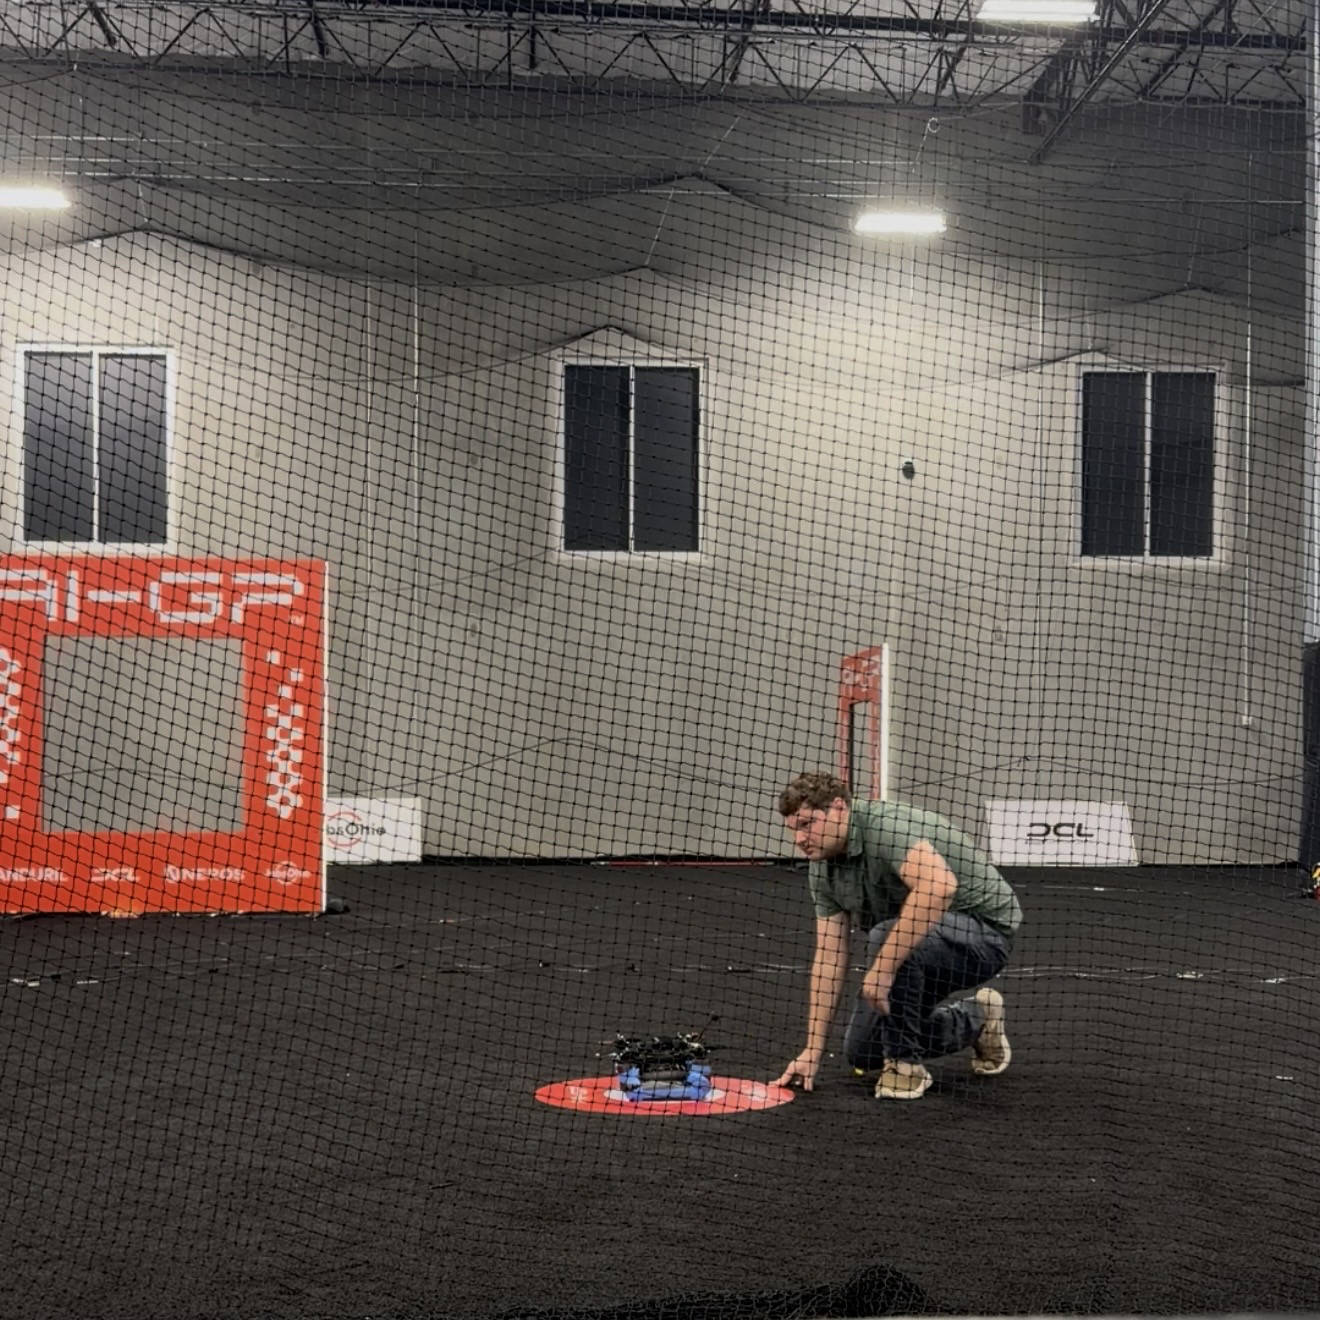
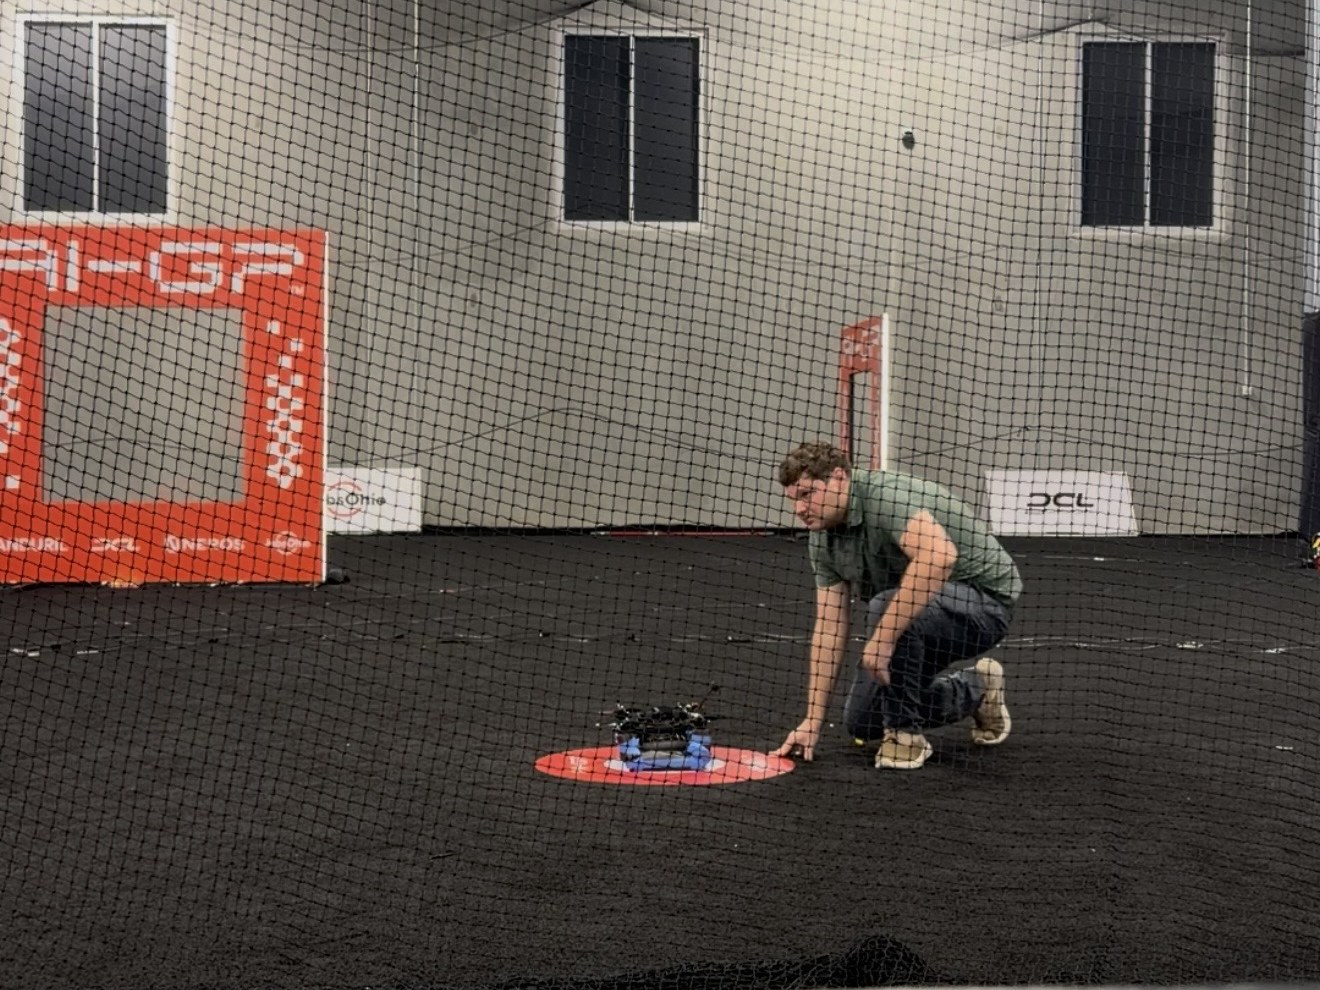
Site: qualifier wording; setup photo cropped to match the padding photo

diff --git a/site/src/content.js b/site/src/content.js
@@ -36,7 +36,7 @@ export const stats = [
 
 export const team = {
   intro:
-    "The two virtual qualifiers were flown in the organizers' simulator, with our stack connected to it over MAVLink: I qualified through VQ1, then placed in the top 15 of more than 3,300 teams worldwide in VQ2, which earned an invitation to the physical qualifiers. Cristhian Prado and Reese Haven came on for the physical qualifier at Anduril in Costa Mesa, CA. To prepare, we forked an open-source Elodin drone simulator that runs the Betaflight flight-controller firmware in the loop and built the published course into it, so the same code could be developed against the real course before it ever flew.",
+    "The two virtual qualifiers were flown in the organizers' simulator, with our autonomy software flying the simulated aircraft: I qualified through VQ1, then placed in the top 15 of more than 3,300 teams worldwide in VQ2, which earned an invitation to the physical qualifiers. Cristhian Prado and Reese Haven came on for the physical qualifier at Anduril in Costa Mesa, CA. To prepare, we forked an open-source Elodin drone simulator that runs the Betaflight flight-controller firmware in the loop and built the published course into it, so the same code could be developed against the real course before it ever flew.",
   members: [
     { name: "Brian Standage", role: ["Team Lead", "AI/ML Engineer"], photo: "photos/team/brian.jpeg", blurb: "Software lead. Designed the architecture and wrote the autonomy stack: perception and ML, state estimation, planning, and the simulator work. On site: camera calibration, code syncing to the drones, the flight start command, and rapid debugging between attempts.", linkedin: "https://www.linkedin.com/in/brian-standage-22835912a/" },
     { name: "Cristhian Prado", role: "AI/ML Engineer", photo: "photos/team/cristhian.jpg", blurb: "Software development, perception and debugging, and input on the decisions between flights. Ran the project on the ground: project management, time keeping against the slot clock, debrief logging after every flight, and progress tracking across the three days.", linkedin: "https://www.linkedin.com/in/pradocristhian/" },
@@ -56,7 +56,7 @@ export const aigp = {
   stagesImage: "photos/aigp/aigp_stages.jpg",
   pqImage: "photos/aigp/pq_aigp.jpg",
   stages: [
-    { n: "1", name: "Virtual Qualifier 1", note: "The cut: fly the organizers' course in their simulator, with the team's software connected over MAVLink. Qualified." },
+    { n: "1", name: "Virtual Qualifier 1", note: "The cut: fly the organizers' course in their simulator with your own autonomy software. Qualified." },
     { n: "2", name: "Virtual Qualifier 2", note: "The ranking round. Our simulator run placed in the top 15 of more than 3,300 teams worldwide and earned the invitation to the physical qualifier." },
     { n: "3", name: "Physical Qualifier", note: "Anduril, Costa Mesa, California, 15 to 22 September. Real aircraft on a real course, timed slots, a referee counting gates. Ten teams advance. This report covers this stage; we were on site for 3.5 of the 8 days." },
     { n: "4", name: "Grand Prix, Ohio", note: "The final, for the ten teams that qualified from the physical qualifier. We did not place in the top 10 and did not advance." },
